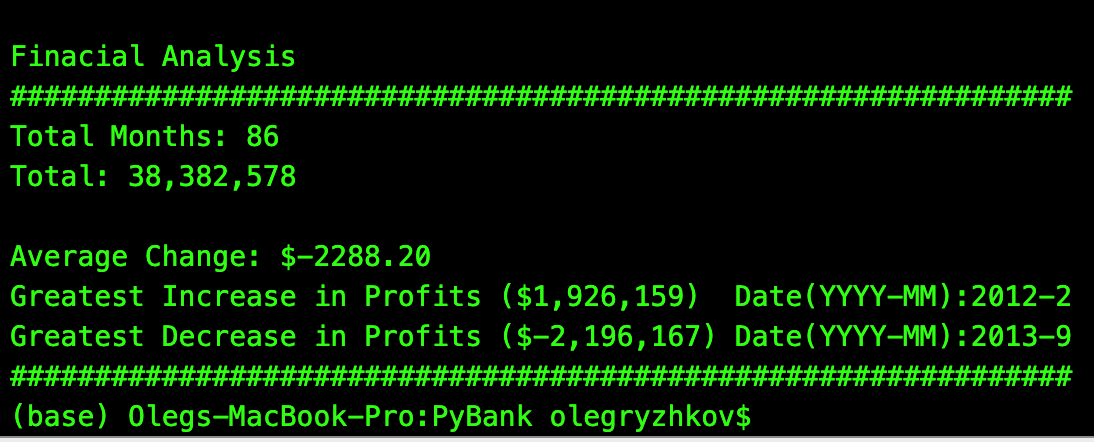
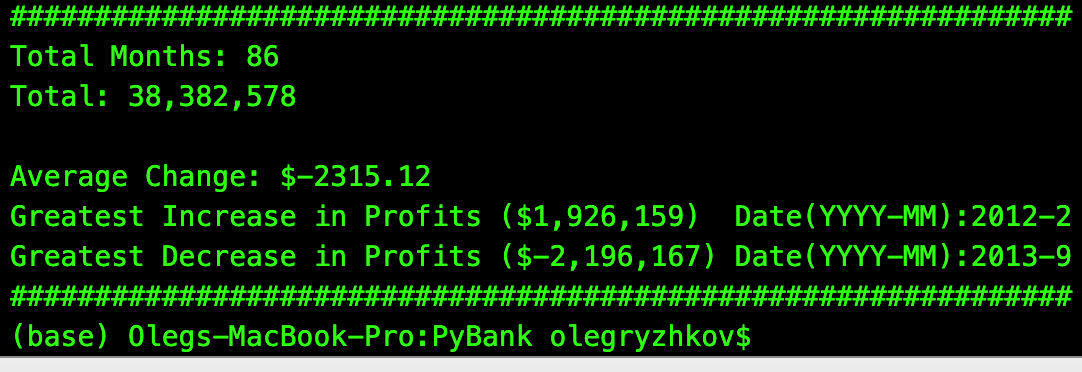
deleted unnecessary comments

Changed region(s): [[0.0, 0.5323, 1.0, 1.0], [0.0, 0.0, 1.0, 0.5323]]

diff --git a/PyBank/main.py b/PyBank/main.py
@@ -17,9 +17,7 @@ def load_data(path, file_name):
     Returns:
         data_list: (list of rows from CSV file)
     """
-    # Path to collect data
     data_csv = os.path.join(path, file_name)
-    # Opening CSV file
     with open(data_csv, 'r') as csvfile:
         data_reader = csv.reader(csvfile, delimiter=',')
         # Removing header
@@ -28,7 +26,6 @@ def load_data(path, file_name):
         data_list = []
         for row in data_reader:
             data_list.append(row)
-    # Returning list with uploaded dataset
     return data_list
 
 def conversion_data(data_list):
@@ -41,21 +38,15 @@ def conversion_data(data_list):
             key - list (type date) with 1 element date
             values - list (type integer) with 2 elements (profit, change)
     """
-
-    # Conversion string into data type
     date_list = [datetime.strptime(data_str[0], '%b-%Y') for data_str in data_list]
-    # Conversion string into integer type
     profit_list = [int(data_str[1]) for data_str in data_list]
-    # Merging 2 lists into a dictionary
     conversion_dict = dict(zip(date_list, profit_list))
-    # Appending changes element to a value for each key of a dictionary
     changes_list = []
     for i in range(len(profit_list)):
         if i == 0 : changes_list.append(0)
         else:
             changes_list.append(profit_list[i] - profit_list[i-1])
         conversion_dict[date_list[i]] = [conversion_dict[date_list[i]], changes_list[i]]
-    # Returning dictionary with conversed and added data
     return conversion_dict
 
 def print_plus(print_list, output_file = "None"):
@@ -64,7 +55,6 @@ def print_plus(print_list, output_file = "None"):
         data_list   (tuple):            The data list for printing
         output_file (string, optional): The name of a txt file.
     """
-    #Printing summary analysis to the terminal/file depending on the argument
     if output_file != "None":
         sys.stdout = open(output_file, "w")
     border = '#' * 63
@@ -95,7 +85,7 @@ for key in pybank_conversion:
         min_change = pybank_conversion[key][1]
         min_date = key
 total_months = len(pybank_conversion)
-avg_change = format(total_change/total_months,'.2f')
+avg_change = format(total_change/(total_months-1),'.2f')
 
 #Creating tuple for output data
 print_data = (total_months, format(total_profit, ',d'), avg_change, format(max_change,',d'), max_date, format(min_change,',d'), min_date)

diff --git a/PyPoll/main.py b/PyPoll/main.py
@@ -15,9 +15,7 @@ def load_data(path, file_name):
     Returns:
         data_dict: (dict of rows from CSV file)
     """
-    # Path to collect data
     data_csv = os.path.join(path, file_name)
-    # Opening CSV file
     with open(data_csv, 'r') as csvfile:
         data_reader = csv.reader(csvfile, delimiter=',')
         # Removing header
@@ -26,8 +24,6 @@ def load_data(path, file_name):
         data_list = []
         for row in data_reader:
             data_list.append(row)
-#        data_dict.update({data_dict[row[2]]: [data_dict[row[0]], data_dict[row[1]]]})
-    # Returning list with uploaded dataset
     return data_list
 
 def print_plus(print_list, candidate_dict, output_file = "None"):
@@ -37,7 +33,6 @@ def print_plus(print_list, candidate_dict, output_file = "None"):
         candidate_dict (dict):          The dictionary with candidate summary
         output_file (string, optional): The name of a txt file.
     """
-    #Printing summary analysis to the terminal/file depending on the argument
     if output_file != "None":
         sys.stdout = open(output_file, "w")
     border = '#' * 51
